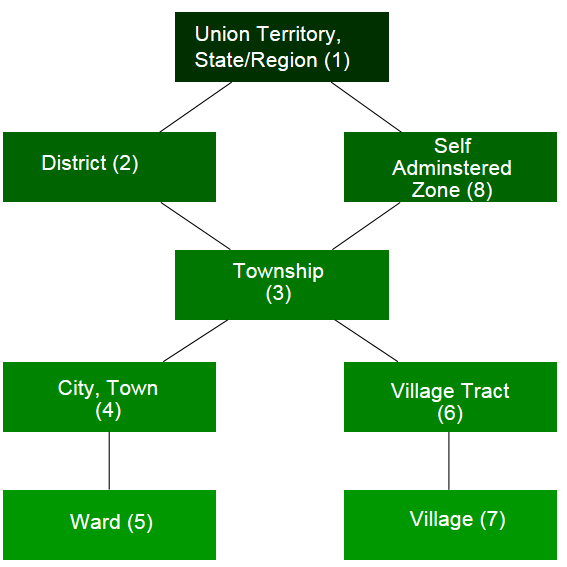
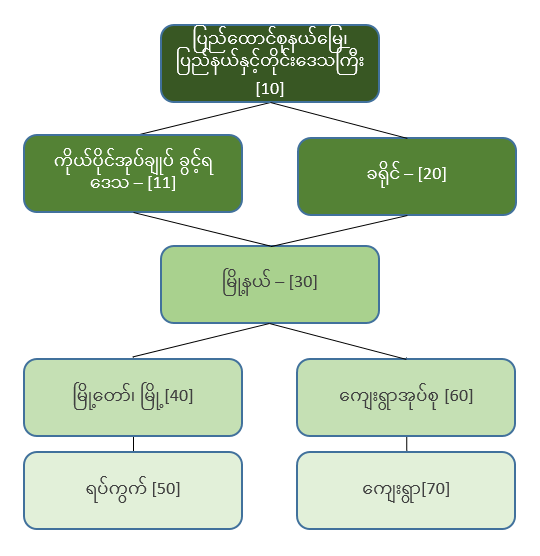
Admin Structure
admin structure update

diff --git a/about/index.html b/about/index.html
@@ -212,7 +212,7 @@ img.emoji {
 					<div class="elementor-widget-wrap">
 				<div class="elementor-element elementor-element-ae65d7e elementor-widget elementor-widget-text-editor" data-id="ae65d7e" data-element_type="widget" data-widget_type="text-editor.default">
 				<div class="elementor-widget-container">
-					<div class="elementor-text-editor elementor-clearfix"><ul><li>ပြည်ထောင်စုနယ်မြေ</li><li>ပြည်နယ်နှင့်တိုင်းဒေသကြီး</li><li>ခရိုင်</li><li>ကိုယ်ပိုင်အုပ်ချုပ် ခွင့်ရ ဒေသ</li><li>မြို့နယ်</li><li>မြို့</li><li>ရပ်ကွက်</li><li>ကျေးရွာအုပ်စု</li><li>ကျေးရွာ</li></ul></div>
+					<div class="elementor-text-editor elementor-clearfix"><ul><li>ပြည်ထောင်စုနယ်မြေ</li><li>ပြည်နယ်နှင့်တိုင်းဒေသကြီး</li><li>ကိုယ်ပိုင်အုပ်ချုပ် ခွင့်ရ ဒေသ</li><li>ခရိုင်</li><li>မြို့နယ်</li><li>မြို့</li><li>ရပ်ကွက်</li><li>ကျေးရွာအုပ်စု</li><li>ကျေးရွာ</li></ul></div>
 				</div>
 				</div>
 						</div>
